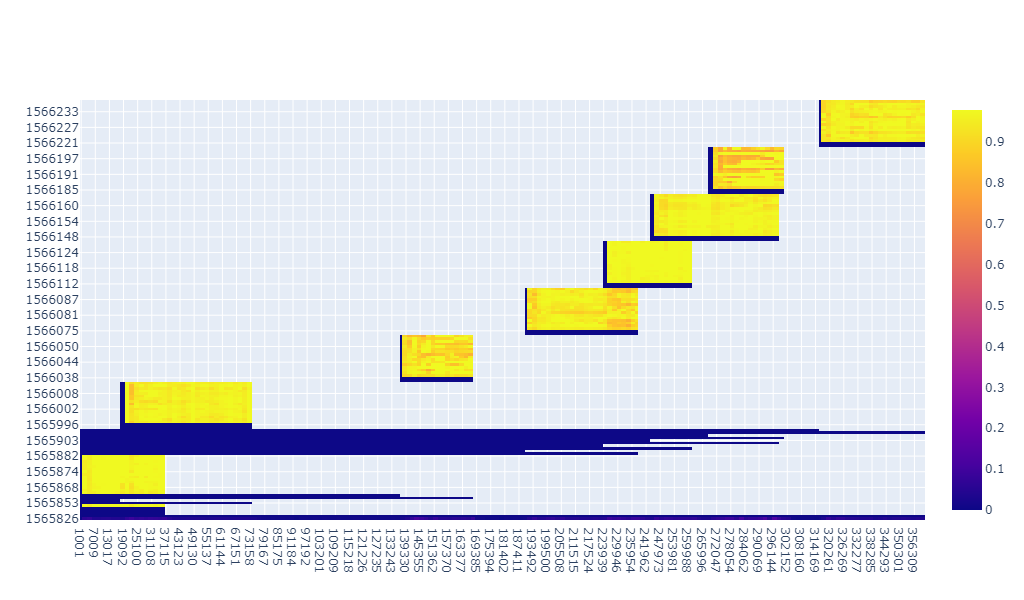
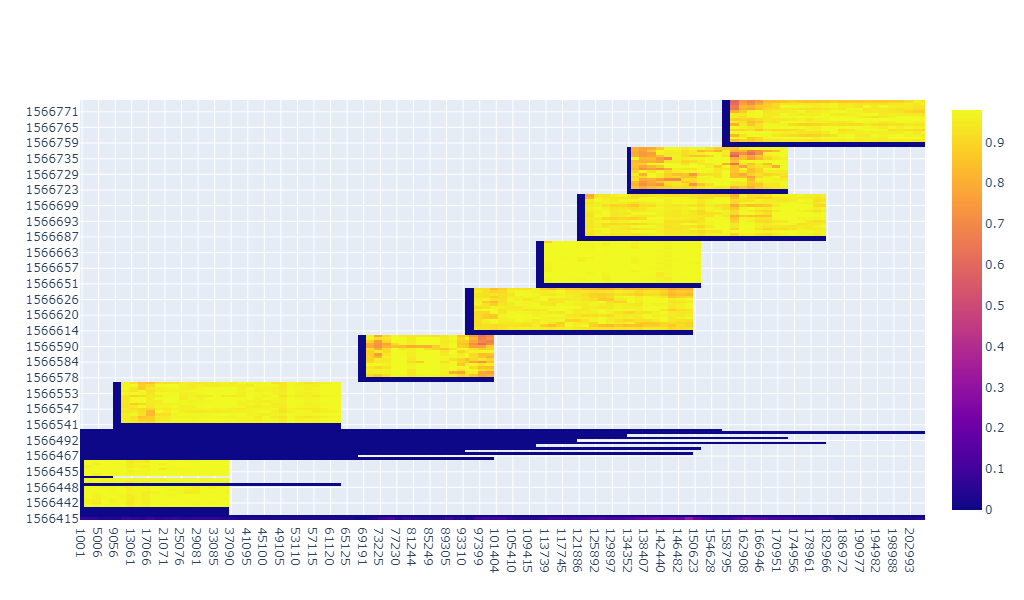
Creación plots personalizados

diff --git a/gui.py b/gui.py
@@ -13,7 +13,7 @@ from tkinter.messagebox import showinfo, askyesno
 import modalSelectFigure as msf
 
 
-from migplot import parse_file, initial_chart
+from migplot import parse_file, initial_chart, interactive_chart_plot
 
 from checkBoxTreeview import CheckboxTreeview, loadPids
 
@@ -117,7 +117,7 @@ def mostrarEdicion():
     yData_cb.current(1)
     zData_cb['values'] = list(infoData[0][1].columns)
     zData_cb.current(5)
-    z_tipoDatos_cb['values'] = list(infoData[0][1].columns)
+    z_tipoDatos_cb['values'] = ["Enteiros", "Flotantes", "Booleans", "String"]
     z_tipoDatos_cb.current(0)
 
     editFrame.pack(fill=BOTH, expand=1)
@@ -176,6 +176,21 @@ window.configure(bg="#FFFFFF")
 **************************************************************************
 ******************************* EDIT FRAME *******************************
 '''
+
+
+def xerarNovaGrafica():
+    print("delete outliers: ", deleteOutliers.get())
+    print("xdata: ", xData.get())
+    print("ydata: ", yData.get())
+    print("zdata: ", zData.get())
+    print("tiposDatos: ", z_tipoDatos.get())
+    interactive_chart_plot(
+        infoData[0][1].columns.get_loc(xData.get()),
+        infoData[0][1].columns.get_loc(yData.get()),
+        zData.get(),
+        infoData[0][1]
+    )
+
 
 editFrame = Frame(window, width=1024, height=720)
 #editFrame.pack(fill=BOTH, expand=1)
@@ -345,7 +360,7 @@ button_5 = Button(
     image=button_image_5,
     borderwidth=0,
     highlightthickness=0,
-    command=lambda: print("button_5 clicked"),
+    command=xerarNovaGrafica,
     relief="flat"
 )
 button_5.place(
@@ -591,109 +606,6 @@ z_tipoDatos_cb.place(
 )
 z_tipoDatos_cb.current()
 
-
-'''
-**************************************************************************
-
-'''
-
-'''
-def destroyPop():
-    pop.destroy()
-    pop.update()
-
-
-def selectionGrafica():
-    global pop
-    pop = Toplevel(window)
-    pop.title("Selección gráfica")
-    pop.geometry("700x900")
-    pop.grab_set()
-    # pop.overrideredirect(True) # para que non teña os bordes de windows
-    modalFrame = Frame(pop, width=700, height=900)
-
-    canvas = Canvas(
-        modalFrame,
-        bg="#FFFFFF",
-        height=900,
-        width=700,
-        bd=0,
-        highlightthickness=0,
-        relief="ridge"
-    )
-
-    canvas.place(x=0, y=0)
-    canvas.create_rectangle(
-        0.0,
-        0.0,
-        700.0,
-        80.0,
-        fill=TEXT[config['INITIAL']['COLOR']],
-        outline="")
-
-    button_image_1 = PhotoImage(
-        file=relative_to_assets("cross.png"))
-    button_1 = Button(
-        pop,
-        image=button_image_1,
-        borderwidth=0,
-        highlightthickness=0,
-        command=destroyPop,
-        relief="flat"
-    )
-    button_1.place(
-        x=630.0,
-        y=9.0,
-        width=58.0,
-        height=58.0
-    )
-
-    button_image_2 = PhotoImage(
-        file=relative_to_assets("button_heatmap.png"))
-    button_2 = Button(
-        pop,
-        image=button_image_2,
-        borderwidth=0,
-        highlightthickness=0,
-        command=mostrarEdicion,
-        relief="flat"
-    )
-    button_2.place(
-        x=20.0,
-        y=123.0,
-        width=312.0,
-        height=248.0
-    )
-
-    button_image_3 = PhotoImage(
-        file=relative_to_assets("button_scatter.png"))
-    button_3 = Button(
-        pop,
-        image=button_image_3,
-        borderwidth=0,
-        highlightthickness=0,
-        command=lambda: print("button_3 clicked"),
-        relief="flat"
-    )
-    button_3.place(
-        x=368.0,
-        y=123.0,
-        width=312.0,
-        height=248.0
-    )
-
-    canvas.create_text(
-        220.0,
-        28.0,
-        anchor="nw",
-        text=TEXT[config['INITIAL']['IDIOMA']]["Seleccione tipo de gráfica:"],
-        fill="#000000",
-        font=("Inter Bold", 20 * -1)
-    )
-
-    modalFrame.pack(fill=BOTH, expand=1)
-    window.wait_window()  # pop.top
-'''
 
 '''
 **************************************************************************

diff --git a/migplot.py b/migplot.py
@@ -208,6 +208,79 @@ def interactive_chart(data):
     fig.show()
 
 
+def interactive_chart_plot(x_index: int, y_index: int, zName: str, data):
+    xs = np.unique(np.array(data.iloc[:, x_index]))
+    ys = np.unique(np.array(data.iloc[:, y_index]))
+
+    columns = list(data.columns)
+
+    x_name = columns[x_index]
+    y_name = columns[y_index]
+
+    print(f"Preparing plots for: {columns}")
+
+    fig = go.Figure()
+
+    buttons = []
+
+    start = time.time()
+
+    zs = compute_zs(data, x_index, y_index, xs, ys)
+
+    xs = xs.astype(str)
+    ys = ys.astype(str)
+
+    end = time.time()
+
+    print(f"Zs computed in {end - start} seconds")
+
+    for z_index, z_name in enumerate(columns):
+        if z_name == zName:
+            print(f"Column {z_name}: ")
+            try:
+                hm = numeric_heatmap(xs, ys, zs[z_index])
+                fig.add_trace(hm)
+            except:
+                print(f"\tNot numeric. Treating as qualitative.")
+                hm = qualitative_heatmap(xs, ys, zs[z_index])
+                fig.add_trace(hm)
+
+            visible = np.full(len(columns), False)
+            visible[z_index] = True
+
+            buttons.append(
+                dict(
+                    method='update',
+                    label=z_name,
+                    args=[{'visible': visible}, {'title': z_name}]
+                )
+            )
+
+    fig.update_layout(
+        updatemenus=[
+            dict(
+                type="buttons",
+                direction="left",
+                buttons=buttons,
+                pad={"r": 10, "t": 10},
+                showactive=True,
+                x=0.11,
+                xanchor="left",
+                y=1.1,
+                yanchor="top"
+            ),
+        ]
+    )
+
+    fig.update_layout(
+        yaxis_type='category',
+        xaxis=dict(title=x_name),
+        yaxis=dict(title=y_name)
+    )
+
+    fig.show()
+
+
 if __name__ == '__main__':
     files = sys.argv[1:]
 
